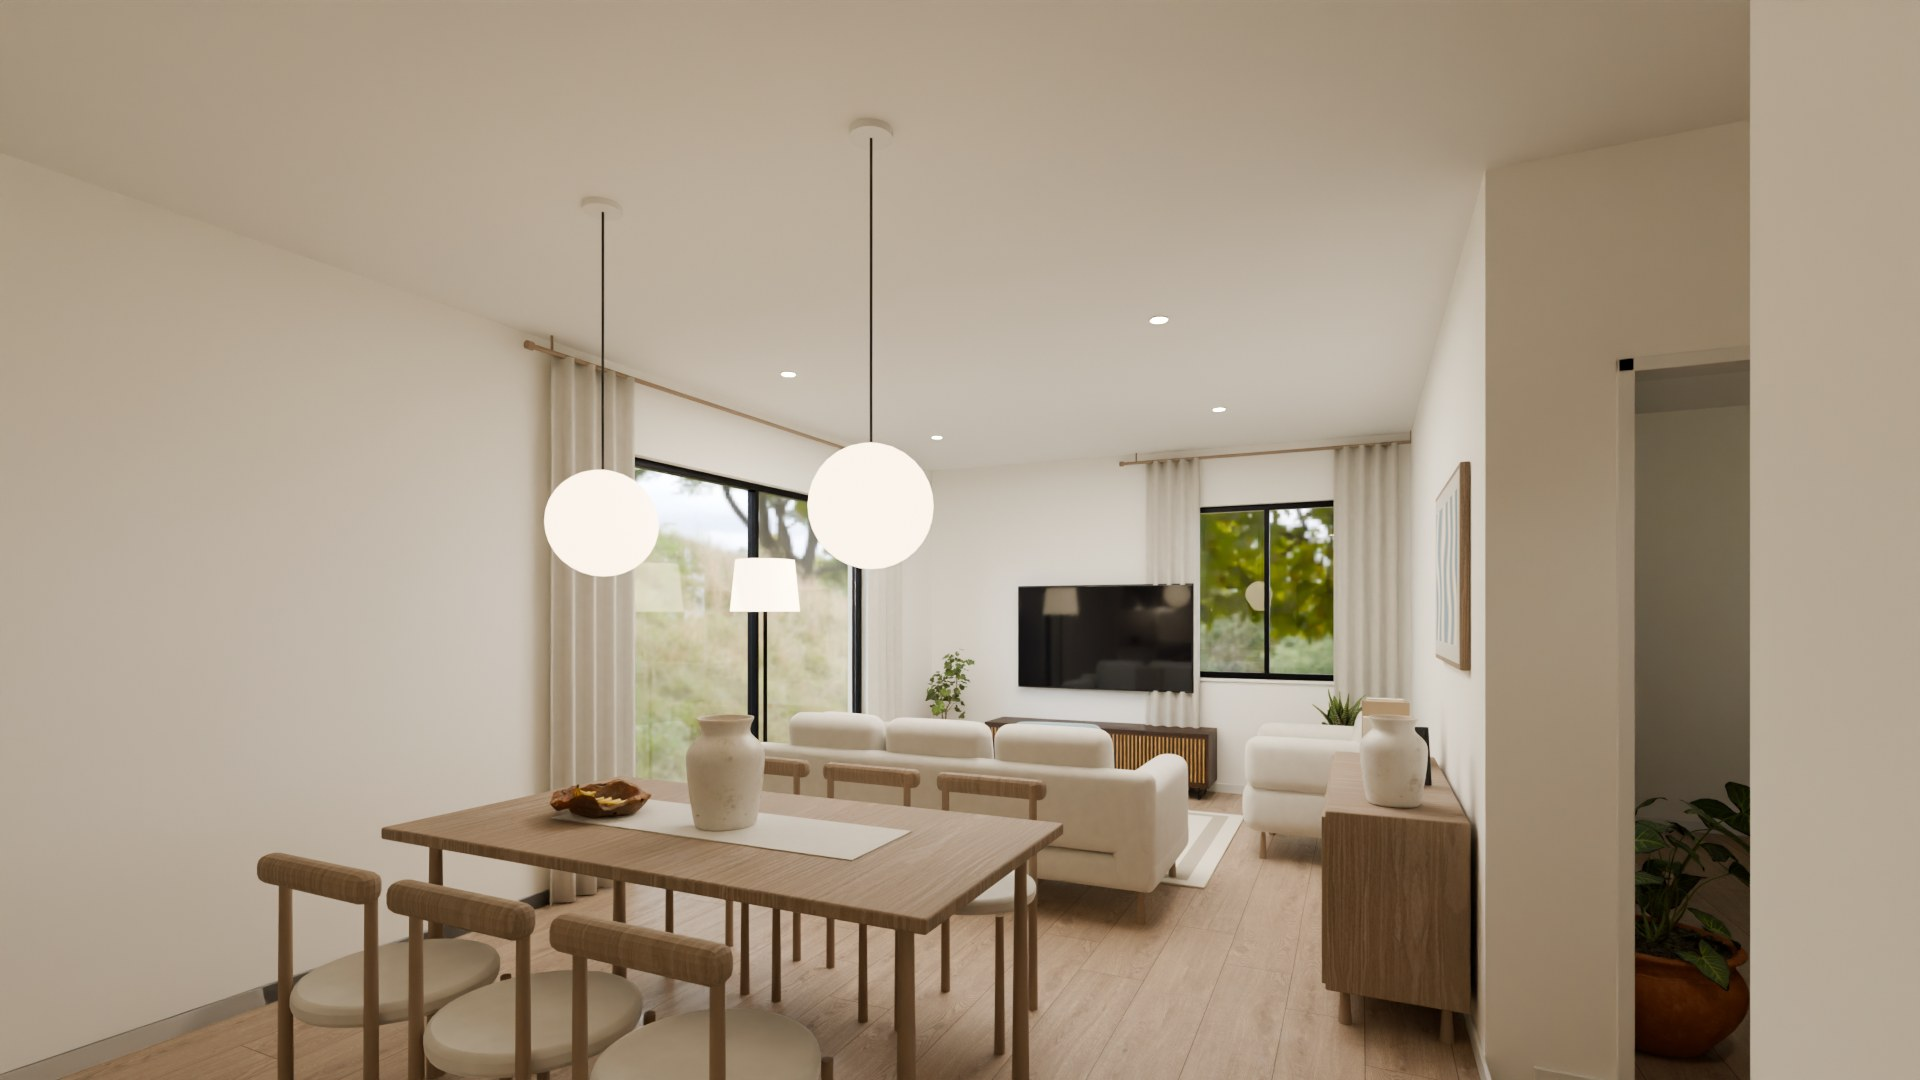
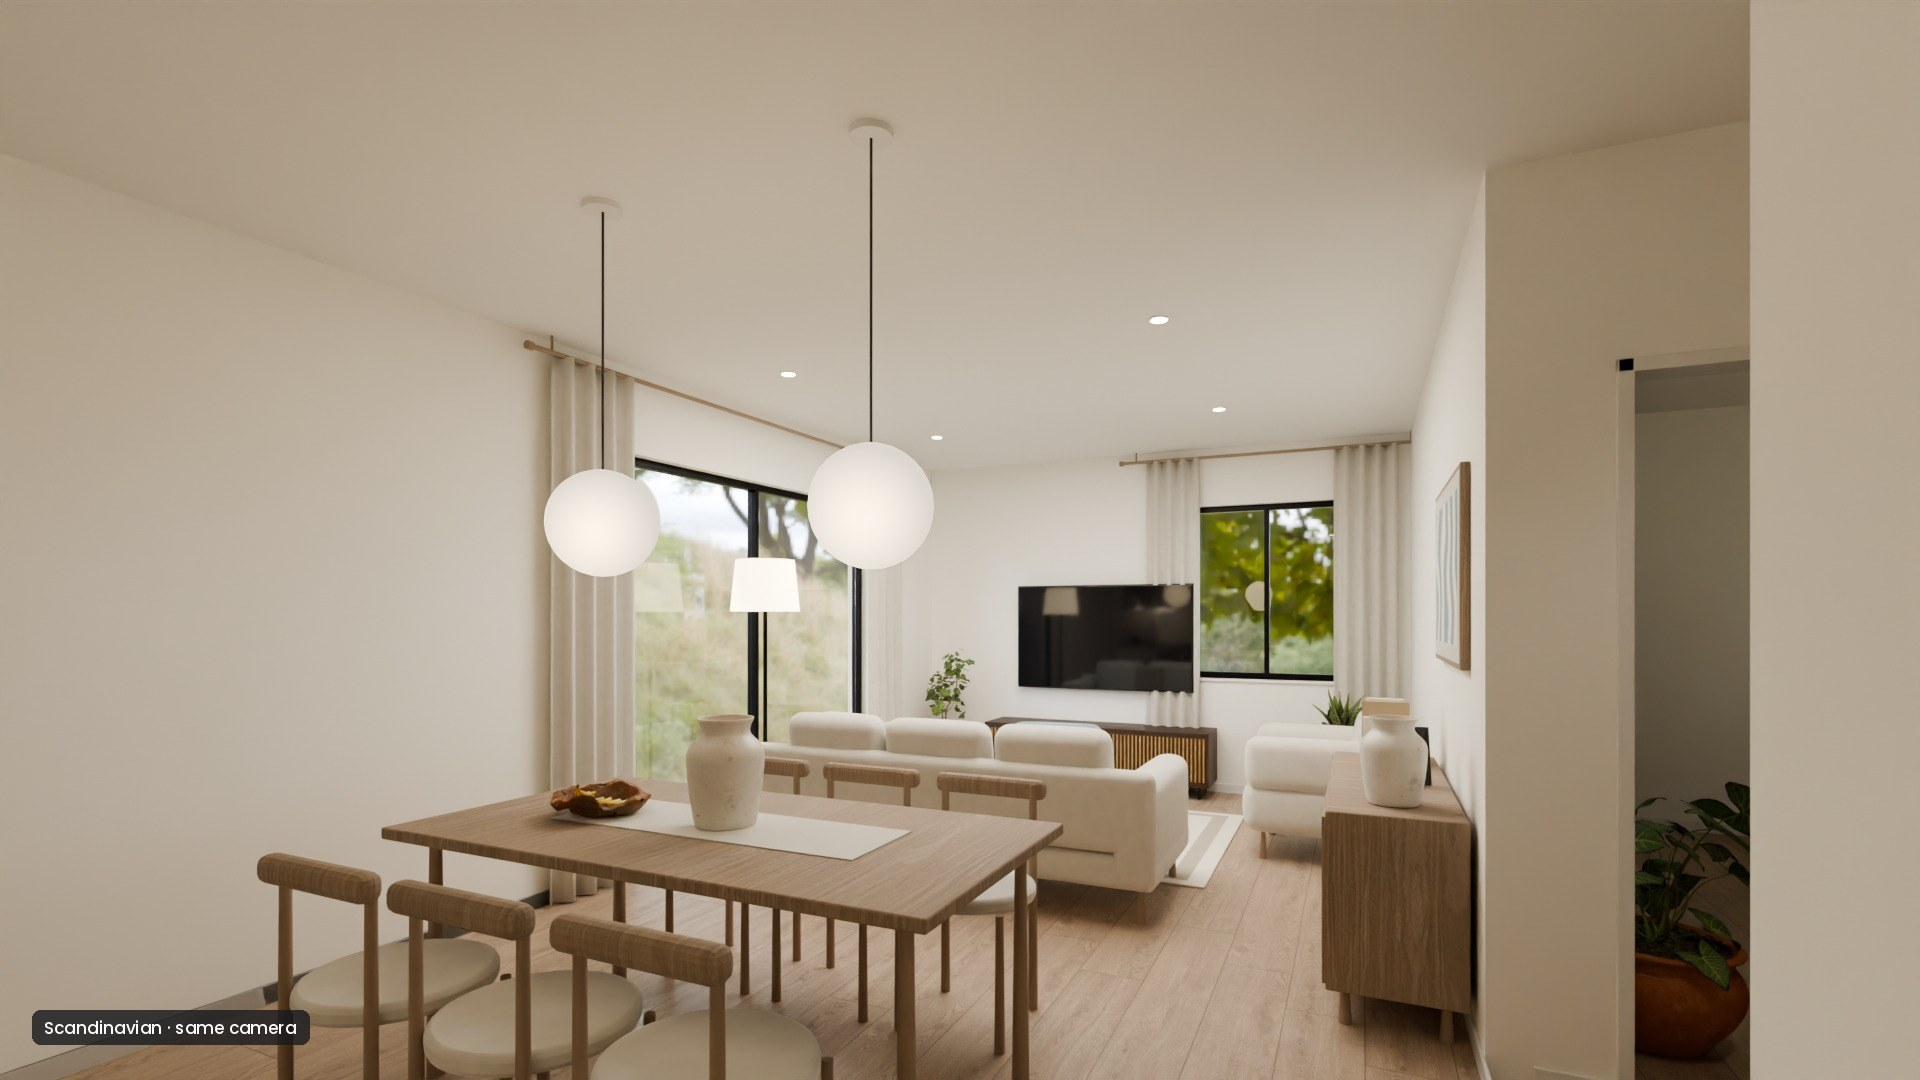
Floorplan round 5 final: units note on gallery B, gallery C headline, softened Scandinavian globe highlights

diff --git a/blender/present.py b/blender/present.py
@@ -320,6 +320,32 @@ def header(im, text, h=60, top=22, size=28):
     d.text((GW / 2, top + h / 2 + 1), text, font=f, fill=(255, 255, 255), anchor="mm")
 
 
+def soften_globes(im, min_area=4000):
+    """Highlight compression for flat, near-blown opal globes. Finds round warm-white blobs (disk opening
+    splits them from bright walls / sky; only round, filled, square-bbox blobs are kept) and applies a soft
+    spherical falloff (centre ~0.985, rim ~0.87, warm) inside each disk, feathered at the rim."""
+    import numpy as np
+    from scipy import ndimage as ndi
+    a = np.asarray(im.convert("RGB")).astype(np.float32) / 255.0
+    m = (a[..., 0] >= 0.955) & (a[..., 1] >= 0.925) & (a[..., 2] >= 0.885)
+    yy0, xx0 = np.mgrid[-22:23, -22:23]; disk = (yy0 ** 2 + xx0 ** 2) <= 22 ** 2
+    m2 = ndi.binary_opening(m, structure=disk)
+    lab, n = ndi.label(m2); out = a.copy(); found = []
+    for i, sl in enumerate(ndi.find_objects(lab)):
+        mm = lab[sl] == i + 1; A = mm.sum(); h, w = mm.shape
+        if A < min_area or not (0.85 <= h / w <= 1.18) or A / (h * w) < 0.68: continue
+        ys, xs = np.nonzero(lab == i + 1); cy, cx = ys.mean(), xs.mean(); R = np.sqrt(A / np.pi) + 3
+        y0, y1 = int(max(cy - R - 6, 0)), int(min(cy + R + 6, a.shape[0])); x0, x1 = int(max(cx - R - 6, 0)), int(min(cx + R + 6, a.shape[1]))
+        yy, xx = np.mgrid[y0:y1, x0:x1]; r = np.sqrt((yy - cy - 0.18 * R) ** 2 + (xx - cx + 0.15 * R) ** 2) / R
+        v = np.clip(0.985 - 0.11 * r ** 1.6, 0.86, 0.985)
+        tone = np.stack([v, v * 0.975, v * 0.94], axis=2)
+        rr = np.sqrt((yy - cy) ** 2 + (xx - cx) ** 2); wgt = np.clip((R + 1.0 - rr) / 2.5, 0, 1)[..., None]
+        blk = out[y0:y1, x0:x1]; out[y0:y1, x0:x1] = blk * (1 - wgt) + np.minimum(blk, tone) * wgt
+        found.append((int(cx), int(cy), int(R)))
+    print("soften_globes:", found)
+    return Image.fromarray((np.clip(out, 0, 1) * 255 + 0.5).astype(np.uint8))
+
+
 def ev(im, stops):
     from PIL import ImageEnhance
     return ImageEnhance.Brightness(im).enhance(2 ** stops)
@@ -337,7 +363,7 @@ def gallery():
         im.paste(ev(cover(Image.open(arg("--living")), lw, H2, fy=0.35), -0.15), (g, top))
         im.paste(ev(cover(Image.open(arg("--kitchen")), rw, rh), -0.15), (lw + 2 * g, top))
         im.paste(ev(cover(Image.open(arg("--bedroom")), rw, rh), -0.15), (lw + 2 * g, top + rh + g))
-        header(im, "COMPLETE INTERIOR VISUALIZATION")
+        header(im, "INTERIOR VISUALIZATION \u2014 KEY SPACES")
         label(im, g + 14, GH - 52, "Living & dining"); label(im, lw + 2 * g + 14, top + rh - 46, "Kitchen"); label(im, lw + 2 * g + 14, GH - 52, "Bedroom")
         p = os.path.join(OUT, "gallery_2_interiors.jpg"); im.save(p, quality=92); out.append(p)
     if arg("--plan2d") and arg("--top"):
@@ -353,14 +379,19 @@ def gallery():
             im.paste(t, (xb + (cw - t.size[0]) // 2, top + (ch - t.size[1]) // 2))
         title_band(im, "DIMENSION-MATCHED 2D TO 3D RECONSTRUCTION", dark=True)
         label(im, pad + 10, GH - 48, "2D FLOOR PLAN", dark=True); label(im, 2 * pad + w2d + 10, GH - 48, "3D TOP VIEW", dark=True)
+        dn = ImageDraw.Draw(im); fu = F("SemiBold", 17); nt = "ALL DIMENSIONS IN METERS"; tw_ = dn.textlength(nt, font=fu)
+        dn.rounded_rectangle([GW - pad - tw_ - 34, GH - 48, GW - pad - 10, GH - 14], 8, fill=(255, 255, 255), outline=(22, 24, 28), width=2)
+        dn.text((GW - pad - tw_ - 22, GH - 42), nt, font=fu, fill=(22, 24, 28))
         p = os.path.join(OUT, "gallery_3_plan_vs_3d.jpg"); im.save(p, quality=92); out.append(p)
     if arg("--styles"):
         fs = arg("--styles").split(","); names = ["Modern", "Scandinavian", "Japandi"]
         top = 96; g = 8; im = Image.new("RGB", (GW, GH), (18, 19, 22)); cw = (GW - 4 * g) // 3; H2 = GH - top - g
         for i, (f_, n_) in enumerate(zip(fs, names)):
-            im.paste(cover(Image.open(f_), cw, H2, fx=0.36), (g + i * (cw + g), top))
+            src_ = Image.open(f_).convert("RGB")
+            if n_ == "Scandinavian": src_ = soften_globes(src_)
+            im.paste(cover(src_, cw, H2, fx=0.36), (g + i * (cw + g), top))
             label(im, g + i * (cw + g) + 14, GH - 52, n_)
-            s16 = cover(Image.open(f_), 1920, 1080); label(s16, 32, 1080 - 70, f"{n_} · same camera")
+            s16 = cover(src_, 1920, 1080); label(s16, 32, 1080 - 70, f"{n_} · same camera")
             s16.save(os.path.join(OUT, f"style_{n_.lower()}_16x9.jpg"), quality=92)
         header(im, "ONE ROOM, THREE STYLES")
         p = os.path.join(OUT, "gallery_4_styles.jpg"); im.save(p, quality=92); out.append(p)

diff --git a/blender/README.md b/blender/README.md
@@ -91,6 +91,8 @@ Gallery order: A, C, B, D.
 * **Styles.** They are now clearly distinct. Scandinavian has white walls, light oak, linen upholstery, opal globes and brighter daylight (+0.42 EV).
   Japandi has warm beige plaster, warm oak (`oak_veneer_01`), low wooden-frame furniture and ribbed rice-paper lanterns.
   Both were re-rendered at the same camera (Cycles, 40 spp + OIDN, 1920×1080, about 2.5-3 min each).
+* **Final touches.** B carries an "ALL DIMENSIONS IN METERS" note. C is headed "INTERIOR VISUALIZATION — KEY SPACES". The Scandinavian opal globes
+  get a compositing-only highlight compression (`soften_globes` in `present.py`: round globe blobs only, soft spherical falloff, feathered rim).
 * **Geometry proof.** The swing column reads "from → into". D4 reads "Exterior → Kitchen (rendered closed)". A scope note says the checks cover walls,
   openings and swings, and are a modelling-accuracy check, not a building-code or structural certification (`previews/r5_geometry_proof.jpg` / `.csv`).
 
